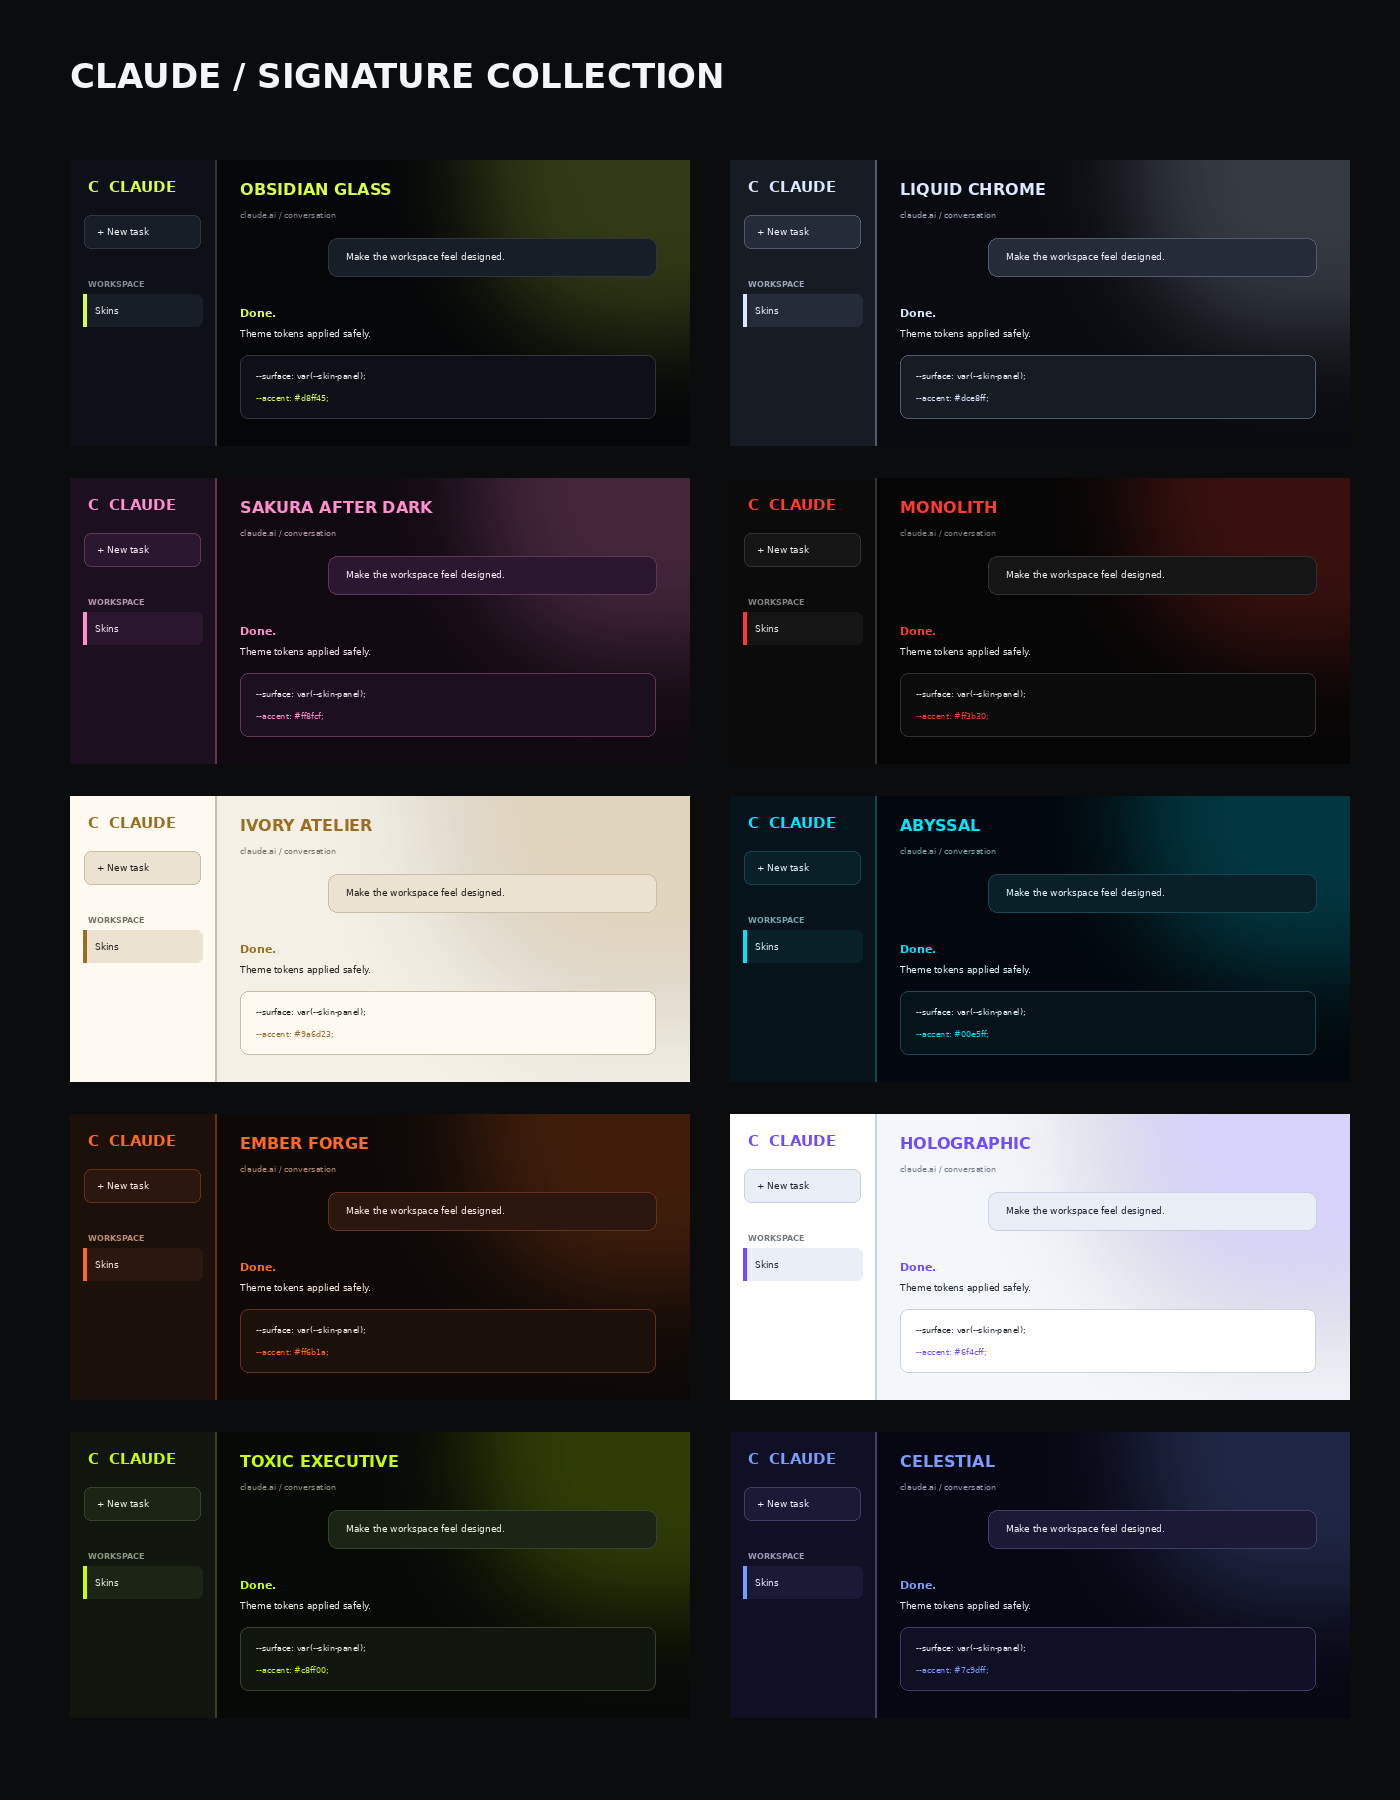
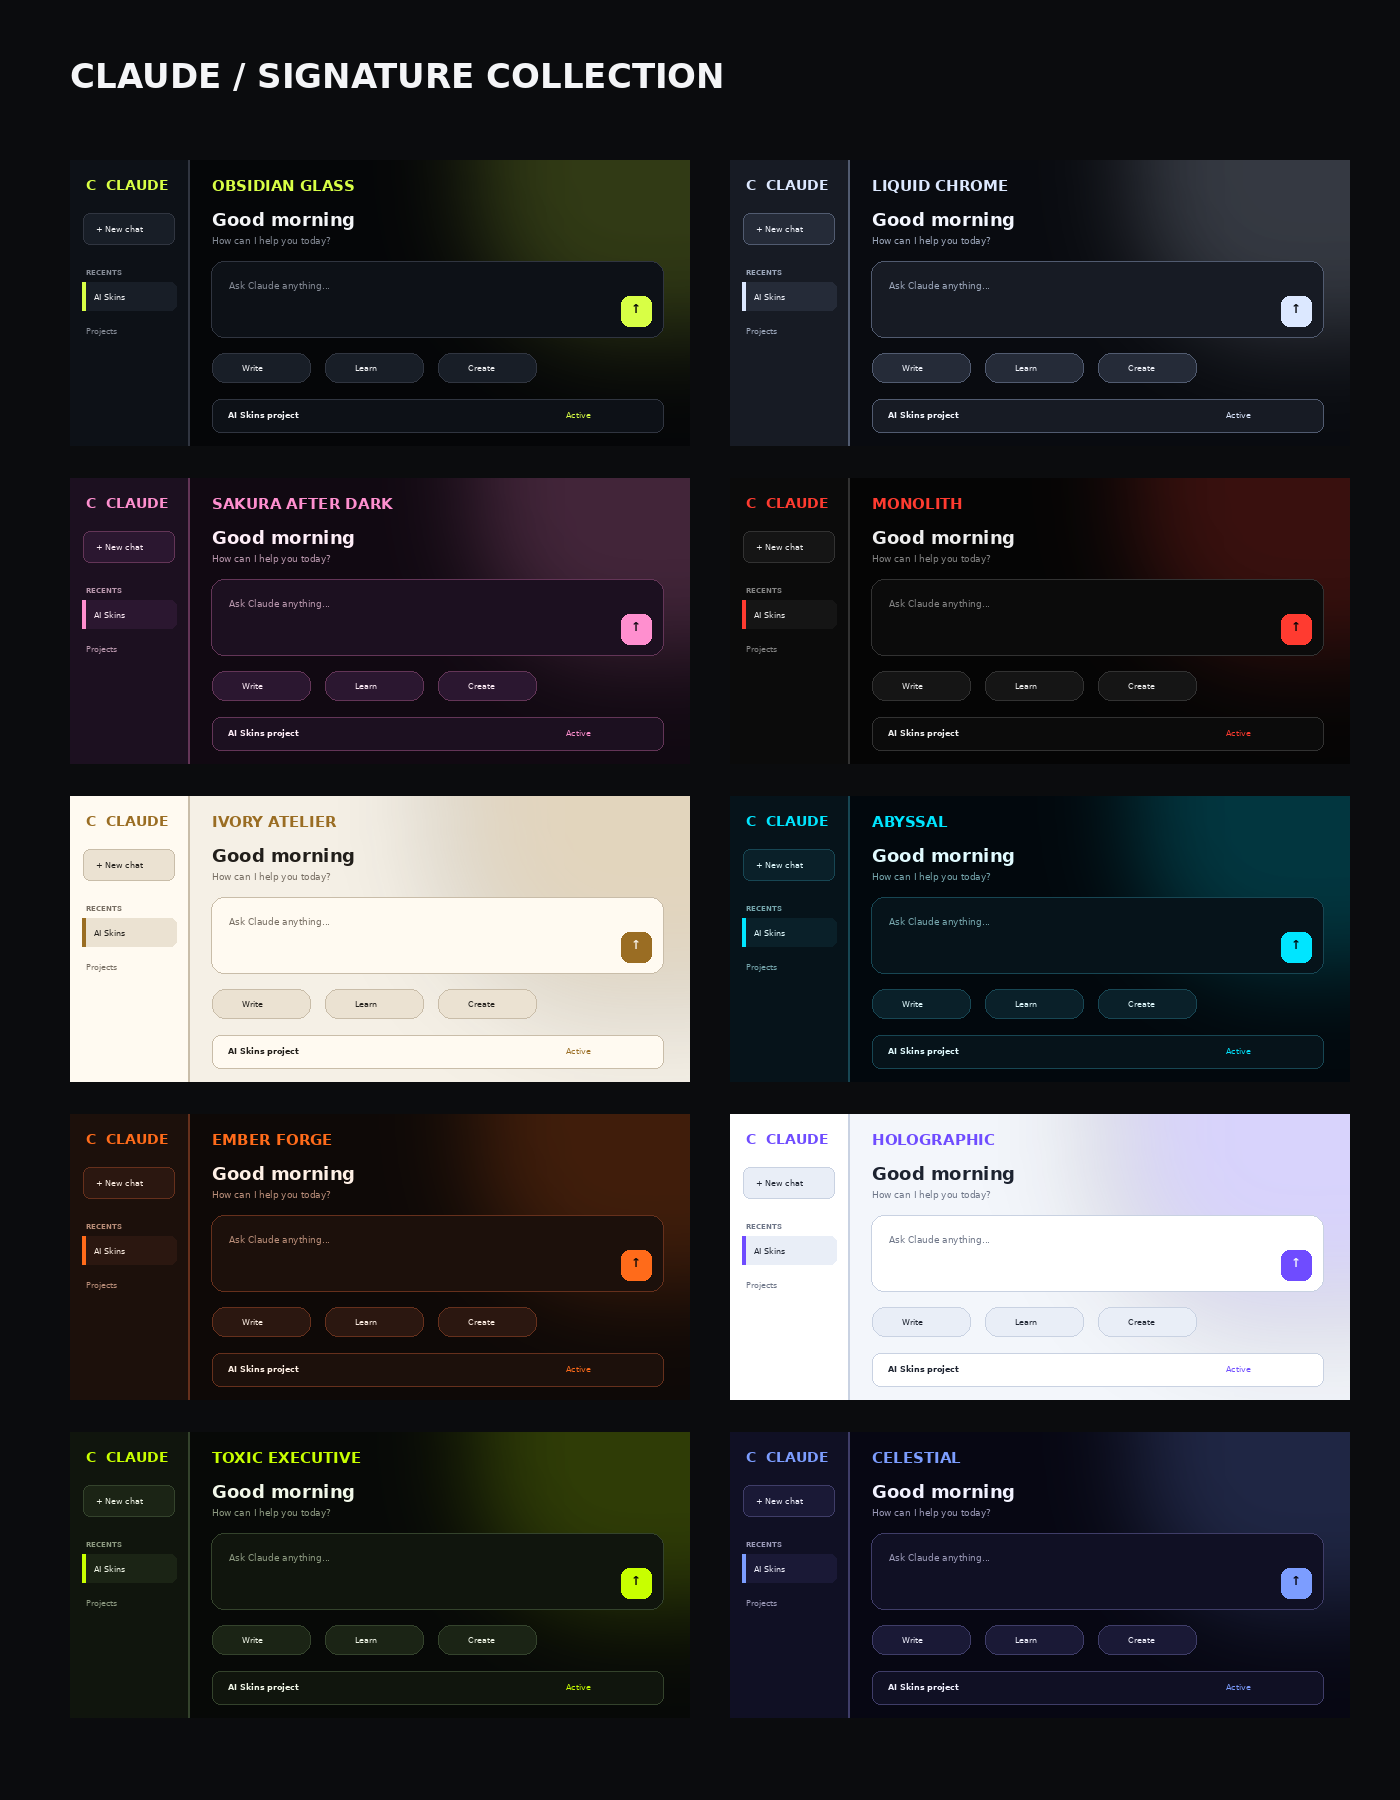
Give Claude collection previews a distinct layout

diff --git a/scripts/build-collection-sheets.py b/scripts/build-collection-sheets.py
@@ -43,10 +43,37 @@ def tile(skin, signature=False, platform="chatgpt"):
         ImageDraw.Draw(glow).ellipse((370, -150, 730, 210), fill=accent + "35")
         im = Image.alpha_composite(im.convert("RGBA"), glow.filter(ImageFilter.GaussianBlur(55))).convert("RGB")
     d = ImageDraw.Draw(im)
+    if platform == "claude":
+        # Claude home layout: compact rail, centered welcome, large composer and suggestion chips.
+        d.rectangle((0, 0, 118, 286), fill=panel)
+        d.line((118, 0, 118, 286), fill=line, width=2)
+        d.text((16, 17), "C  CLAUDE", font=font(14, True), fill=accent)
+        d.rounded_rectangle((13, 53, 104, 84), radius=7, fill=panel2, outline=line)
+        d.text((26, 64), "+ New chat", font=font(8), fill=text)
+        d.text((16, 108), "RECENTS", font=font(7, True), fill=muted)
+        d.rounded_rectangle((12, 122, 106, 150), radius=6, fill=panel2)
+        d.rectangle((12, 122, 15, 150), fill=accent)
+        d.text((24, 132), "AI Skins", font=font(8), fill=text)
+        d.text((16, 166), "Projects", font=font(8), fill=muted)
+        d.text((142, 17), name, font=font(15, True), fill=accent)
+        d.text((142, 49), "Good morning", font=font(18, True), fill=text)
+        d.text((142, 75), "How can I help you today?", font=font(9), fill=muted)
+        d.rounded_rectangle((141, 101, 593, 177), radius=13, fill=panel, outline=line)
+        d.text((159, 120), "Ask Claude anything...", font=font(9), fill=muted)
+        d.rounded_rectangle((551, 136, 581, 166), radius=8, fill=accent)
+        d.text((561, 141), "↑", font=font(12, True), fill=bg)
+        for index, label in enumerate(("Write", "Learn", "Create")):
+            left = 142 + index * 113
+            d.rounded_rectangle((left, 193, left + 98, 222), radius=13, fill=panel2, outline=line)
+            d.text((left + 30, 203), label, font=font(8), fill=text)
+        d.rounded_rectangle((142, 239, 593, 272), radius=8, fill=panel, outline=line)
+        d.text((158, 250), "AI Skins project", font=font(8, True), fill=text)
+        d.text((496, 250), "Active", font=font(8), fill=accent)
+        return im
+
     d.rectangle((0, 0, 145, 286), fill=panel)
     d.line((145, 0, 145, 286), fill=line, width=2)
-    brand = "C  CLAUDE" if platform == "claude" else "◇  CHATGPT"
-    d.text((18, 18), brand, font=font(15, True), fill=accent)
+    d.text((18, 18), "◇  CHATGPT", font=font(15, True), fill=accent)
     d.rounded_rectangle((14, 55, 130, 88), radius=7, fill=panel2, outline=line)
     d.text((27, 66), "+ New task", font=font(9), fill=text)
     d.text((18, 119), "WORKSPACE", font=font(8, True), fill=muted)
@@ -54,11 +81,10 @@ def tile(skin, signature=False, platform="chatgpt"):
     d.rectangle((13, 134, 16, 166), fill=accent)
     d.text((25, 145), "Skins", font=font(9), fill=text)
     d.text((170, 20), name, font=font(16, True), fill=accent)
-    context = "claude.ai / conversation" if platform == "claude" else "ai-skins / main"
-    d.text((170, 50), context, font=font(8), fill=muted)
+    d.text((170, 50), "ai-skins / main", font=font(8), fill=muted)
     d.rounded_rectangle((258, 78, 586, 116), radius=9, fill=panel2, outline=line)
     d.text((276, 91), "Make the workspace feel designed.", font=font(9), fill=text)
-    d.text((170, 146), "Done." if platform == "claude" else "Implemented.", font=font(11, True), fill=accent)
+    d.text((170, 146), "Implemented.", font=font(11, True), fill=accent)
     d.text((170, 168), "Theme tokens applied safely.", font=font(9), fill=text)
     d.rounded_rectangle((170, 195, 585, 258), radius=8, fill=panel, outline=line)
     d.text((186, 211), "--surface: var(--skin-panel);", font=font(8), fill=text)
